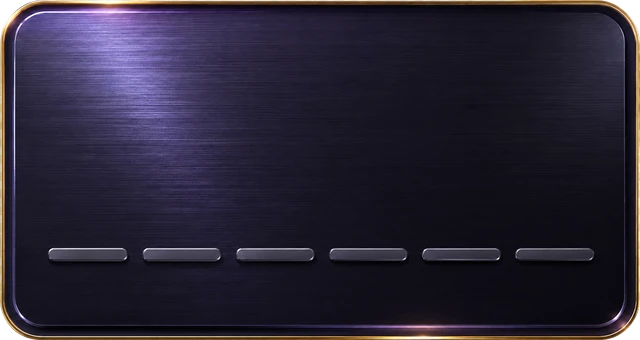
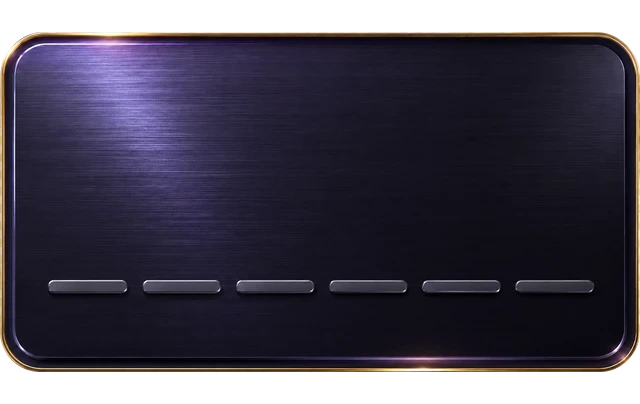
Tarjetas premium del mismo tamaño (fila simétrica)
Las 3 tarjetas (Tessera oro, Billetera plata, Ascenso obsidiana) ahora usan
el mismo aspecto común (~1.585) para verse simétricas, mismo ancho y alto.

El arte morado (card-ascenso) tenía un aspecto más ancho/bajo (1.882) que lo
hacía ver distinto; se reprocesó con padding transparente vertical para igualar
el aspecto común sin recortar su marco dorado. Oro y plata ya estaban cerca, así
que con objectFit:contain quedan uniformes. Se ajustó el padding del overlay
morado para mantener el texto sobre el arte visible.

diff --git a/apps/web/src/components/PremiumCards.tsx b/apps/web/src/components/PremiumCards.tsx
@@ -41,7 +41,7 @@ export function PremiumCards({
   return (
     <Carousel>
       {/* ===== ORO · Tessera ===== */}
-      <div style={cardBox(1.585)}>
+      <div style={cardBox(CARD_ASPECT)}>
         <img src="/assets/card-tessera.webp" alt="" style={art} />
         <div style={{ ...overlay, justifyContent: 'flex-end' }}>
           <div style={aliasGold}>{alias}</div>
@@ -59,7 +59,7 @@ export function PremiumCards({
       </div>
 
       {/* ===== PLATINO · Billetera ===== */}
-      <div style={cardBox(1.516)}>
+      <div style={cardBox(CARD_ASPECT)}>
         <img src="/assets/card-billetera.webp" alt="" style={art} />
         <div style={overlay}>
           <div style={miniLabelDark}>Tu billetera</div>
@@ -74,9 +74,12 @@ export function PremiumCards({
       </div>
 
       {/* ===== OBSIDIANA · Ascenso ===== */}
-      <div style={cardBox(1.883)}>
+      {/* El arte morado se reprocesó con padding transparente arriba/abajo para
+          igualar el aspecto común (~1.585). El padding extra vertical del overlay
+          mantiene el texto sobre el arte visible de la tarjeta. */}
+      <div style={cardBox(CARD_ASPECT)}>
         <img src="/assets/card-ascenso.webp" alt="" style={art} />
-        <div style={{ ...overlay, justifyContent: 'flex-start' }}>
+        <div style={{ ...overlay, justifyContent: 'flex-start', padding: '21px 15px' }}>
           <div style={{ display: 'flex', justifyContent: 'space-between', alignItems: 'flex-start' }}>
             <div>
               <div style={miniLabelGold}>Tu ascenso</div>
@@ -92,7 +95,11 @@ export function PremiumCards({
 }
 
 // ---- estilos ----
-// La tarjeta es el arte (con su marco). Aspect = al del arte para no recortar.
+// Las 3 tarjetas usan el MISMO aspecto para verse simétricas (mismo ancho y alto).
+// El arte morado (card-ascenso) se reprocesó con padding transparente vertical
+// para igualar este aspecto sin recortar su marco; oro y plata ya estaban cerca.
+const CARD_ASPECT = 1.585;
+// La tarjeta es el arte (con su marco). Aspect común para fila uniforme.
 function cardBox(aspect: number): React.CSSProperties {
   return {
     position: 'relative', flex: '0 0 auto',